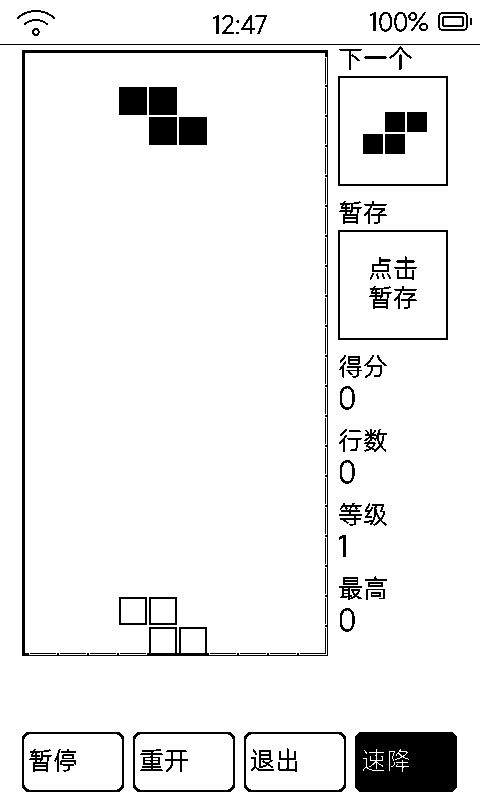
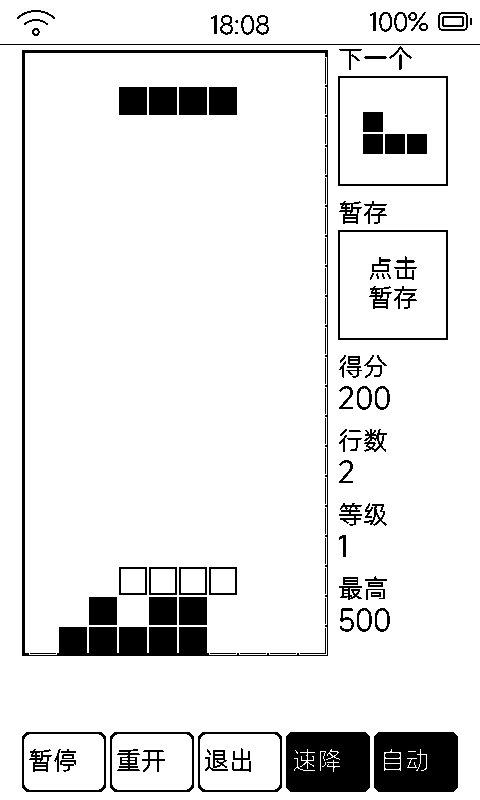
feat(tetris): 自动模式——AI 自玩,结束后自动开新局
- 每块枚举旋转×落点,副本棋盘模拟硬降,按消行/堆高/空洞/起伏权重取最优
- 150ms 一步(转→移→硬降),复用 apply_input 渲染路径,ghost 照常
- 结束画面停 2.7s 自动重开;踢墙卡死 3 步兜底强制硬降
- 用户可随时抢操作,AI 按新局面重算;再点自动即交还控制权

diff --git a/tools/tetris_app/main/tetris_main.c b/tools/tetris_app/main/tetris_main.c
@@ -7,7 +7,8 @@
 //   - VkKey_AttachScreen / ScreenLvAsync / ScreenRequestHome / 全刷请求 → dynapp_* 垫片
 //   - 最高分 NVS → SD 文件 apps/fangfang/hiscore.txt（fopen 系，已进符号表）
 //   - HapticAttachClick 触觉反馈省略
-// 输入：盖板三键 vk_home=旋转 vk_prev=左移 vk_next=右移；屏上按钮=暂停/重开/退出/速降。
+// 输入：盖板三键 vk_home=旋转 vk_prev=左移 vk_next=右移；屏上按钮=暂停/重开/退出/速降/自动。
+// 自动模式：AI 逐块评估旋转×落点后自走自放，游戏结束停 2.7 秒自动开新局。
 #include <stdio.h>
 #include <string.h>
 #include <stdlib.h>
@@ -195,6 +196,94 @@ static void core_cells(const int shape[TYPES][4][2] /*未用*/, int t, int r, in
     }
 }
 
+// ---- 自动模式 AI(1 层贪心:枚举旋转×落点,在副本棋盘上模拟硬降,按形状打分)----
+static int s_auto;           // 自动模式开关:AI 自玩 + 结束后自动开新局
+static int s_ai_rot, s_ai_x; // 当前一块的投放计划(目标旋转态与横坐标)
+static int s_ai_plan_piece;  // 计划对应的 pieces_ 快照(-1 = 失效需重算)
+static int s_ai_plan_type;   // 计划对应的方块类型(hold/重开后必须重算)
+static int s_ai_fail;        // 连续无进展步数(踢墙卡死兜底)
+static int s_over_ticks;     // 结束界面停留的 AI tick 计数,攒够自动重开
+
+static int ai_fits(const uint8_t b[FH][FW], int t, int r, int x, int y) {
+    for (int i = 0; i < 4; ++i) {
+        const int cx = x + k_shapes[t][r][i][0];
+        const int cy = y + k_shapes[t][r][i][1];
+        if (cx < 0 || cx >= FW || cy >= FH) return 0;
+        if (cy < 0) continue;
+        if (b[cy][cx] != 0) return 0;
+    }
+    return 1;
+}
+
+// 把 (t,r,x) 硬降进副本棋盘并就地消行,返回消行数;放不进去返回 -1
+static int ai_drop_and_clear(uint8_t b[FH][FW], int t, int r, int x) {
+    if (!ai_fits(b, t, r, x, 0)) return -1;
+    int y = 0;
+    while (ai_fits(b, t, r, x, y + 1)) ++y;
+    for (int i = 0; i < 4; ++i) {
+        const int cy = y + k_shapes[t][r][i][1];
+        if (cy >= 0) b[cy][x + k_shapes[t][r][i][0]] = 1;
+    }
+    int cleared = 0;
+    for (int yy = FH - 1; yy >= 0; --yy) {
+        int full = 1;
+        for (int xx = 0; xx < FW; ++xx) {
+            if (b[yy][xx] == 0) { full = 0; break; }
+        }
+        if (!full) continue;
+        ++cleared;
+        for (int ty = yy; ty > 0; --ty) {
+            for (int xx = 0; xx < FW; ++xx) b[ty][xx] = b[ty - 1][xx];
+        }
+        for (int xx = 0; xx < FW; ++xx) b[0][xx] = 0;
+        ++yy;
+    }
+    return cleared;
+}
+
+// 棋盘形状罚分:堆高 + 空洞 + 相邻列起伏(经典 0.76/-0.51/-0.36/-0.18 权重 ×100 取整)
+static int ai_penalty(const uint8_t b[FH][FW]) {
+    int height[FW] = {0};
+    int agg = 0, holes = 0, bump = 0;
+    for (int x = 0; x < FW; ++x) {
+        for (int y = 0; y < FH; ++y) {
+            if (b[y][x] != 0) { height[x] = FH - y; break; }
+        }
+        agg += height[x];
+        for (int y = FH - height[x]; y < FH; ++y) {
+            if (b[y][x] == 0) ++holes;
+        }
+    }
+    for (int x = 0; x + 1 < FW; ++x) {
+        bump += height[x] > height[x + 1] ? height[x] - height[x + 1]
+                                          : height[x + 1] - height[x];
+    }
+    return 51 * agg + 36 * holes + 18 * bump;
+}
+
+static void ai_compute_plan(void) {
+    int best = -(1 << 30);
+    s_ai_rot = rot_;
+    s_ai_x = px_;
+    for (int r = 0; r < 4; ++r) {
+        for (int x = -2; x <= FW; ++x) {
+            uint8_t tmp[FH][FW];
+            memcpy(tmp, board, sizeof(tmp));
+            const int cleared = ai_drop_and_clear(tmp, type_, r, x);
+            if (cleared < 0) continue;
+            const int score = 76 * cleared - ai_penalty(tmp);
+            if (score > best) {
+                best = score;
+                s_ai_rot = r;
+                s_ai_x = x;
+            }
+        }
+    }
+    s_ai_plan_piece = pieces_;
+    s_ai_plan_type = type_;
+    s_ai_fail = 0;
+}
+
 // ---- UI 状态 ----
 #define CELL_PX 30
 #define BOARD_X 22
@@ -226,7 +315,9 @@ static char s_score_txt[16];
 static char s_lines_txt[8];
 static char s_level_txt[8];
 static lv_obj_t* s_pause_lbl;
+static lv_obj_t* s_auto_lbl;
 static lv_timer_t* s_timer;
+static lv_timer_t* s_ai_timer;
 static int s_last_full_piece;
 static lv_obj_t* s_mask;
 static lv_obj_t* s_card;
@@ -430,6 +521,14 @@ static void sync_pause_btn(void) {
     lv_label_set_text(s_pause_lbl, state_ == STATE_PAUSED ? "继续" : "暂停");
 }
 
+static void sync_auto_btn(void) {
+    if (s_auto_lbl == NULL) return;
+    lv_obj_t* btn = lv_obj_get_parent(s_auto_lbl);
+    lv_obj_set_style_bg_color(btn, s_auto ? lv_color_black() : lv_color_white(), 0);
+    lv_obj_set_style_bg_opa(btn, LV_OPA_COVER, 0);
+    lv_obj_set_style_text_color(s_auto_lbl, s_auto ? lv_color_white() : lv_color_black(), 0);
+}
+
 static void sync_timer_period(void) {
     if (s_timer == NULL) return;
     lv_timer_set_period(s_timer, (uint32_t)drop_ms_);
@@ -451,6 +550,9 @@ static void do_restart(void) {
     }
     core_reset();
     s_last_full_piece = 0;
+    s_ai_plan_piece = -1;
+    s_ai_plan_type = -1;
+    s_over_ticks = 0;
     sync_timer_period();
     if (s_timer != NULL) lv_timer_resume(s_timer);
     memset(s_render, 0xFF, sizeof(s_render));
@@ -545,6 +647,41 @@ static void apply_input(int input) {
 
 static void input_async_cb(void* arg) { apply_input((int)(intptr_t)arg); }
 
+// ---- 自动模式执行:每个 tick 走一步(转→平移→硬降),完全复用 apply_input 的渲染路径 ----
+#define AI_STEP_MS 150
+#define AI_OVER_RESTART_TICKS 18  // 150ms × 18 ≈ 2.7s,结束画面停留片刻再自动开局
+
+static void on_ai_tick(lv_timer_t* t) {
+    (void)t;
+    if (!s_alive || !s_auto) return;
+    if (state_ == STATE_OVER) {
+        if (++s_over_ticks >= AI_OVER_RESTART_TICKS) {
+            s_over_ticks = 0;
+            do_restart();
+        }
+        return;
+    }
+    if (state_ != STATE_RUNNING) return;
+    s_over_ticks = 0;
+    if (s_ai_plan_piece != pieces_ || s_ai_plan_type != type_) {
+        ai_compute_plan();  // 新块/被 hold/被手动干预过:先重新评估落点,本 tick 只做决策
+        return;
+    }
+    const int pre_rot = rot_, pre_px = px_;
+    if (rot_ != s_ai_rot) apply_input(K_IN_ROTATE);
+    else if (px_ != s_ai_x) apply_input(px_ < s_ai_x ? K_IN_RIGHT : K_IN_LEFT);
+    else apply_input(K_IN_DROP);
+    if (rot_ == pre_rot && px_ == pre_px) {
+        // 旋转/平移被踢墙挡住等异常:连 3 步毫无进展就直接硬降放弃该计划
+        if (++s_ai_fail >= 3) {
+            s_ai_fail = 0;
+            apply_input(K_IN_DROP);
+        }
+    } else {
+        s_ai_fail = 0;
+    }
+}
+
 // esp_timer 上下文回调：只投递（线程安全垫片），不碰 LVGL
 static int on_vk_key(const char* key) {
     if (key == NULL || !s_alive) return 0;
@@ -585,6 +722,12 @@ static void on_btn_clicked(lv_event_t* e) {
         case 3:  // 速降
             apply_input(K_IN_DROP);
             break;
+        case 4:  // 自动:AI 自玩 + 结束后自动开新局
+            s_auto = !s_auto;
+            s_ai_plan_piece = -1;
+            s_over_ticks = 0;
+            sync_auto_btn();
+            break;
         default: break;
     }
 }
@@ -624,6 +767,10 @@ static void on_screen_unloaded(lv_event_t* e) {
         lv_timer_delete(s_timer);
         s_timer = NULL;
     }
+    if (s_ai_timer != NULL) {
+        lv_timer_delete(s_ai_timer);
+        s_ai_timer = NULL;
+    }
     if (state_ == STATE_RUNNING) core_toggle_pause();
     s_mask = NULL;
     s_card = NULL;
@@ -639,6 +786,7 @@ static void on_screen_unloaded(lv_event_t* e) {
     s_board = NULL;
     s_score_lbl = s_lines_lbl = s_level_lbl = s_best_lbl = NULL;
     s_pause_lbl = NULL;
+    s_auto_lbl = NULL;
     s_score_txt[0] = s_lines_txt[0] = s_level_txt[0] = '\0';
     s_next_fp = -1;
     s_hold_fp = -1;
@@ -795,7 +943,7 @@ static void* fangfang_create(void) {
     make_text(s_scr, "最高", 25, SIDE_X, row_y);
     sync_best_label();
 
-    // 底部按键行：暂停 / 重开 / 退出 / 速降（黑底反白）
+    // 底部按键行：暂停 / 重开 / 退出 / 速降（黑底反白）/ 自动（点亮后 AI 自玩）
     lv_obj_t* row = lv_obj_create(s_scr);
     lv_obj_remove_style_all(row);
     lv_obj_set_size(row, 436, BTN_H);
@@ -804,10 +952,11 @@ static void* fangfang_create(void) {
     lv_obj_set_flex_align(row, LV_FLEX_ALIGN_SPACE_BETWEEN, LV_FLEX_ALIGN_CENTER, LV_FLEX_ALIGN_CENTER);
     disable_scroll(row);
     lv_obj_clear_flag(row, LV_OBJ_FLAG_CLICKABLE);
-    s_pause_lbl = make_btn(row, "暂停", 102, BTN_H, on_btn_clicked, (void*)0, 0);
-    make_btn(row, "重开", 102, BTN_H, on_btn_clicked, (void*)1, 0);
-    make_btn(row, "退出", 102, BTN_H, on_btn_clicked, (void*)2, 0);
-    make_btn(row, "速降", 102, BTN_H, on_btn_clicked, (void*)3, 1);
+    s_pause_lbl = make_btn(row, "暂停", 84, BTN_H, on_btn_clicked, (void*)0, 0);
+    make_btn(row, "重开", 84, BTN_H, on_btn_clicked, (void*)1, 0);
+    make_btn(row, "退出", 84, BTN_H, on_btn_clicked, (void*)2, 0);
+    make_btn(row, "速降", 84, BTN_H, on_btn_clicked, (void*)3, 1);
+    s_auto_lbl = make_btn(row, "自动", 84, BTN_H, on_btn_clicked, (void*)4, 0);
 
     redraw_board();
     draw_current();
@@ -818,6 +967,11 @@ static void* fangfang_create(void) {
 
     s_timer = lv_timer_create(on_game_tick, (uint32_t)drop_ms_, NULL);
     if (state_ == STATE_PAUSED) lv_timer_pause(s_timer);
+
+    // 自动模式执行器:常驻低频 tick,关着的时候近乎零开销(只查两个标志位)
+    s_ai_plan_piece = -1;
+    s_ai_plan_type = -1;
+    s_ai_timer = lv_timer_create(on_ai_tick, AI_STEP_MS, NULL);
 
     s_alive = 1;
     // 盖板三键：vk_home=旋转 vk_prev=左移 vk_next=右移；factory 供返回栈重建

diff --git a/docs/app-tetris.md b/docs/app-tetris.md
@@ -10,9 +10,18 @@
 
 - 左侧 10×20 棋盘（格 30px）；右栏「下一个」预览 + 「暂存」盒（点击换牌，一局一次）+ 得分 / 行数 / 等级 / 最高
 - 盖板键：`vk_home` 旋转、`vk_prev` 左移、`vk_next` 右移
-- 底部四键：**暂停 / 重开 / 退出 / 速降**（速降黑底反白）
+- 底部五键：**暂停 / 重开 / 退出 / 速降**（速降黑底反白）/** 自动**（点亮黑底 = AI 接管）
 - 计分：消 1~4 行 = 100 / 300 / 500 / 800 × 等级；每 10 行升一级，下落间隔 800ms 递减至 150ms
 - 最高分存 `data/hiscore.txt`
+
+## 自动模式（AI 自玩）
+
+点「自动」点亮后，AI 完全接管：**自己评估、自己走位、自己硬降，游戏结束后停约 2.7 秒自动开新局**，适合当墨水屏版的「屏保游戏」挂机看。
+
+- **策略**：每个新块枚举 4 种旋转 × 全部落点，在副本棋盘上模拟硬降 + 消行，按「消行奖励 − 堆高 − 空洞 − 列起伏」的经典权重打分取最优（1 层贪心，每块微秒级算完）
+- **节奏**：150ms 一步，先转到目标朝向、再平移到目标列、最后硬降——一步一刷，和手玩的观感一致；ghost 虚影照常预告落点
+- **兜底**：旋转/平移被踢墙卡住时连 3 步无进展就强制硬降并重算计划；用户随时可以抢操作（盖板键 / 暂存 / 速降都有效，AI 会针对新局面重新规划），再点一次「自动」即交还控制权
+- 暂停时 AI 一并停住；重开、最高分、全刷去残影等逻辑与手动模式共用同一套代码路径
 
 ## 完整规则
 
